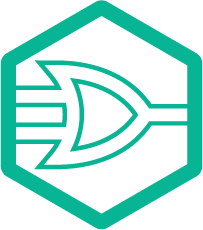
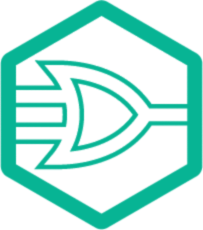
w

diff --git a/index.html b/index.html
@@ -1,10 +1,11 @@
 <!DOCTYPE html>
 <html lang="en">
   <head>
-    <!-- SEO + Boot -->
+    <!-- SEO -->
     <meta charset="utf-8">
-    <meta name="description" content="">
+    <meta name="description" content="This Spring, Choose Your Adventure at Oregon's Premier All Student Virtual Hackathon">
     <meta name="viewport" content="width=device-width, initial-scale=1, shrink-to-fit=no">
+    <meta name="theme-color" content="#273147">
     <meta property='og:title' content='HackOR'/>
     <meta property='og:image' content='https://www.hackor.org/images/logo.png'/>
     <meta property='og:description' content="This Spring, Choose Your Adventure at Oregon's Premier All Student Virtual Hackathon"/>
@@ -29,39 +30,38 @@
     
     <title>HackOR</title>
   </head>
-
-  <body>
+  <body data-aos="fade">
     <nav id="nav" class="navbar fixed-top navbar-expand-lg navbar-light">
       <a class="navbar-brand" href="#"><img src="images/Logo.svg" alt="HackOR"></a>
-      <button class="navbar-toggler" type="button" data-toggle="collapse" data-target="#navbarNav" aria-controls="navbarNav" aria-expanded="false" aria-label="Toggle navigation">
+      <button class="navbar-toggler" type="button" data-toggle="collapse" data-target="#nav-items" aria-controls="nav-items" aria-expanded="false" aria-label="Toggle navigation">
         <span class="navbar-toggler-icon"></span>
       </button>
-      <div class="collapse navbar-collapse" id="navbarNav">
+      <div class="collapse navbar-collapse" id="nav-items">
         <ul class="navbar-nav">
-          <li class="nav-item ml-3">
-            <button class="btn btn-outline-primary btn-lg" type="button">
-              <a href="#about"><b>About</b></a>
-            </button>
+          <li class="nav-item">
+            <a href="#about">
+              <button class="btn btn-outline-primary btn-lg" tabindex="-1" type="button"><b>About</b></button>
+            </a>
           </li>
-          <li class="nav-item ml-3">
-            <button class="btn btn-outline-primary btn-lg" type="button">
-              <a href="#schedule"><b>Schedule</b></a>
-            </button>
+          <li class="nav-item">
+            <a href="#schedule">
+              <button class="btn btn-outline-primary btn-lg" tabindex="-1" type="button"><b>Schedule</b></button>
+            </a>
           </li>
-          <li class="nav-item ml-3">
-            <button class="btn btn-outline-primary btn-lg" type="button">
-              <a href="#faq"><b>FAQ</b></a>
-            </button>
+          <li class="nav-item">
+            <a href="#faq">
+              <button class="btn btn-outline-primary btn-lg" tabindex="-1" type="button"><b>FAQ</b></button>
+            </a>
           </li>
-          <li class="nav-item ml-3">
-            <button class="btn btn-outline-primary btn-lg" type="button">
-              <a href="#sponsors"><b>Sponsors</b></a>
-            </button>
+          <li class="nav-item">
+            <a href="#sponsors">
+              <button class="btn btn-outline-primary btn-lg" tabindex="-1" type="button"><b>Sponsors</b></button>
+            </a>
           </li>
-          <li class="nav-item ml-3">
-            <button class="btn btn-outline-primary btn-lg" type="button">
-              <a href="#team"><b>Contact</b></a>
-            </button>
+          <li class="nav-item">
+            <a href="#faq">
+              <button class="btn btn-outline-primary btn-lg" tabindex="-1" type="button"><b>Contact</b></button>
+            </a>
           </li>
         </ul>
       </div>
@@ -80,11 +80,12 @@
                   <h5 data-aos="fade-up" data-aos-delay="200" class="mb-3"><b>Oregon's Premier All-student Virtual Hackathon</b></h5>
                   <h2 data-aos="fade-up" data-aos-delay="300" class="mb-4"><b>March 26-28, 2021</b></h2>
                   <div class="mobile-plus-only">
-                    <span data-aos="fade-up" data-aos-delay="400" class="d-inline-block" tabindex="0" data-toggle="tooltip" title="Registration coming in February!">
-                      <button class="btn btn-outline-primary btn-lg" type="button">
-                        <a class="typeform-share button" href="https://form.typeform.com/to/fCtpdCeJ" data-mode="popup" target="_blank"><b>Pre-Register</b></a>
-                        <script> (function() { var qs,js,q,s,d=document, gi=d.getElementById, ce=d.createElement, gt=d.getElementsByTagName, id="typef_orm_share", b="https://embed.typeform.com/"; if(!gi.call(d,id)){ js=ce.call(d,"script"); js.id=id; js.src=b+"embed.js"; q=gt.call(d,"script")[0]; q.parentNode.insertBefore(js,q) } })() </script>
-                      </button>
+                    <span data-aos="fade-up" data-aos-delay="400" class="d-inline-block" data-toggle="tooltip" title="Registration coming in February!">
+                      <a class="typeform-share button" href="https://form.typeform.com/to/fCtpdCeJ" tabindex="-1" data-mode="popup" target="_blank">
+                        <button class="btn btn-outline-primary btn-lg" type="button"><b>Pre-Register</b>
+                          <script> (function() { var qs,js,q,s,d=document, gi=d.getElementById, ce=d.createElement, gt=d.getElementsByTagName, id="typef_orm_share", b="https://embed.typeform.com/"; if(!gi.call(d,id)){ js=ce.call(d,"script"); js.id=id; js.src=b+"embed.js"; q=gt.call(d,"script")[0]; q.parentNode.insertBefore(js,q) } })() </script>
+                        </button>
+                      </a>
                     </span>
                     <!-- REGISTER BUTTON FOR FEB 1
                     <span data-aos="fade-up" data-aos-delay="400" class="d-inline-block" tabindex="0">
@@ -93,20 +94,21 @@
                       </button>
                     </span>
                     -->
-                    <span data-aos="fade-up" data-aos-delay="400" class="d-inline-block" tabindex="0">
-                      <button class="btn btn-outline-primary btn-lg" type="button">
-                        <a href="mailto:hello@hackor.org"><b>Sponsor Us</b></a>
-                      </button>
+                    <span data-aos="fade-up" data-aos-delay="400" class="d-inline-block">
+                      <a href="mailto:hello@hackor.org">
+                        <button class="btn btn-outline-primary btn-lg" tabindex="-1" type="button"><b>Sponsor Us</b></button>
+                      </a>
                     </span>
                   </div>
                 </div>
               </div>
               <div class="col-lg text-center mini-mobile-only">
-                <span data-aos="fade-up" data-aos-delay="400" class="d-inline-block" tabindex="0" data-toggle="tooltip" title="Registration coming in February!">
-                  <button class="btn btn-outline-primary btn-lg" type="button">
-                    <a class="typeform-share button" href="https://form.typeform.com/to/fCtpdCeJ" data-mode="popup" target="_blank"><b>Pre-Register</b></a>
-                    <script> (function() { var qs,js,q,s,d=document, gi=d.getElementById, ce=d.createElement, gt=d.getElementsByTagName, id="typef_orm_share", b="https://embed.typeform.com/"; if(!gi.call(d,id)){ js=ce.call(d,"script"); js.id=id; js.src=b+"embed.js"; q=gt.call(d,"script")[0]; q.parentNode.insertBefore(js,q) } })() </script>
-                  </button>
+                <span data-aos="fade-up" data-aos-delay="400" class="d-inline-block" data-toggle="tooltip" title="Registration coming in February!">
+                  <a class="typeform-share button" href="https://form.typeform.com/to/fCtpdCeJ" tabindex="-1" data-mode="popup" target="_blank">
+                    <button class="btn btn-outline-primary btn-lg" type="button"><b>Pre-Register</b>
+                      <script> (function() { var qs,js,q,s,d=document, gi=d.getElementById, ce=d.createElement, gt=d.getElementsByTagName, id="typef_orm_share", b="https://embed.typeform.com/"; if(!gi.call(d,id)){ js=ce.call(d,"script"); js.id=id; js.src=b+"embed.js"; q=gt.call(d,"script")[0]; q.parentNode.insertBefore(js,q) } })() </script>
+                    </button>
+                  </a>
                 </span>
                 <!-- REGISTER BUTTON FOR FEB 1
                 <span data-aos="fade-up" data-aos-delay="400" class="d-inline-block" tabindex="0">
@@ -115,10 +117,10 @@
                   </button>
                 </span>
                 -->
-                <span data-aos="fade-up" data-aos-delay="400" class="d-inline-block" tabindex="0">
-                  <button class="btn btn-outline-primary btn-lg" type="button">
-                    <a href="mailto:hello@hackor.org"><b>Sponsor Us</b></a>
-                  </button>
+                <span data-aos="fade-up" data-aos-delay="400" class="d-inline-block">
+                  <a href="mailto:hello@hackor.org">
+                    <button class="btn btn-outline-primary btn-lg" tabindex="-1" type="button"><b>Sponsor Us</b></button>
+                  </a>
                 </span>
               </div>
             </div>
@@ -210,11 +212,12 @@
             <p class="ml-4 mr-4">
               Hackors in the general track form teams of four and collaborate on a project, submitting it in the competition for categories and prizes. 
             </p>
-            <span class="d-inline-block" tabindex="0" data-toggle="tooltip" title="Registration coming in February!">
-              <button class="btn btn-outline-primary btn-lg" type="button">
-                <a class="typeform-share button pl-3 pr-3" href="https://form.typeform.com/to/fCtpdCeJ" data-mode="popup" target="_blank"><b>Pre-Register</b></a>
-                <script> (function() { var qs,js,q,s,d=document, gi=d.getElementById, ce=d.createElement, gt=d.getElementsByTagName, id="typef_orm_share", b="https://embed.typeform.com/"; if(!gi.call(d,id)){ js=ce.call(d,"script"); js.id=id; js.src=b+"embed.js"; q=gt.call(d,"script")[0]; q.parentNode.insertBefore(js,q) } })() </script>
-              </button>
+            <span class="d-inline-block" data-toggle="tooltip" title="Registration coming in February!">
+              <a class="typeform-share button" href="https://form.typeform.com/to/fCtpdCeJ" tabindex="-1" data-mode="popup" target="_blank">
+                <button class="btn btn-outline-primary btn-lg" type="button"><b>Pre-Register</b>
+                  <script> (function() { var qs,js,q,s,d=document, gi=d.getElementById, ce=d.createElement, gt=d.getElementsByTagName, id="typef_orm_share", b="https://embed.typeform.com/"; if(!gi.call(d,id)){ js=ce.call(d,"script"); js.id=id; js.src=b+"embed.js"; q=gt.call(d,"script")[0]; q.parentNode.insertBefore(js,q) } })() </script>
+                </button>
+              </a>
             </span>
           </div>
         </div>
@@ -230,11 +233,12 @@
             <p class="ml-4 mr-4">
               Hackors in the beginner track have the option of attending the hackathon as a conference and submitting a project for the "Best Beginner Hack" award.
             </p>
-            <span class="d-inline-block" tabindex="0" data-toggle="tooltip" title="Registration coming in February!">
-              <button class="btn btn-outline-primary btn-lg" type="button">
-                <a class="typeform-share button pl-3 pr-3" href="https://form.typeform.com/to/fCtpdCeJ" data-mode="popup" target="_blank"><b>Pre-Register</b></a>
-                <script> (function() { var qs,js,q,s,d=document, gi=d.getElementById, ce=d.createElement, gt=d.getElementsByTagName, id="typef_orm_share", b="https://embed.typeform.com/"; if(!gi.call(d,id)){ js=ce.call(d,"script"); js.id=id; js.src=b+"embed.js"; q=gt.call(d,"script")[0]; q.parentNode.insertBefore(js,q) } })() </script>
-              </button>
+            <span class="d-inline-block" data-toggle="tooltip" title="Registration coming in February!">
+              <a class="typeform-share button" href="https://form.typeform.com/to/fCtpdCeJ" tabindex="-1" data-mode="popup" target="_blank">
+                <button class="btn btn-outline-primary btn-lg" type="button"><b>Pre-Register</b>
+                  <script> (function() { var qs,js,q,s,d=document, gi=d.getElementById, ce=d.createElement, gt=d.getElementsByTagName, id="typef_orm_share", b="https://embed.typeform.com/"; if(!gi.call(d,id)){ js=ce.call(d,"script"); js.id=id; js.src=b+"embed.js"; q=gt.call(d,"script")[0]; q.parentNode.insertBefore(js,q) } })() </script>
+                </button>
+              </a>
             </span>
           </div>
         </div>
@@ -251,9 +255,9 @@
               Mentors are to be available throughout the weekend and guide students through their projects and questions. 
             </p>
             <span class="d-inline-block" tabindex="0" data-toggle="tooltip" title="Registration coming in February!">
-              <button class="btn btn-outline-primary btn-lg" type="button">
-                <a class="button pl-3 pr-3" href="http://mentor.hackor.org" target="_blank"><b>Apply as Mentor</b></a>
-              </button>
+              <a class="button text-center" href="http://mentor.hackor.org" target="_blank">
+                <button class="btn btn-outline-primary btn-lg" tabindex="-1" type="button"><b>Apply as Mentor</b></button>
+              </a>
             </span>
           </div>
         </div>
@@ -291,7 +295,7 @@
             <div class="card mt-3">
               <div class="card-header" id="friday">
                 <h5 class="mb-0">
-                  <button class="btn btn-link collapsed" data-toggle="collapse" data-target="#fridayCollapse" aria-expanded="false" aria-controls="fridayCollapse">
+                  <button class="btn btn-link btn-block collapsed" data-toggle="collapse" data-target="#fridayCollapse" aria-expanded="false" aria-controls="fridayCollapse">
                     FRIDAY, MARCH 26</button>
                 </h5>
               </div>
@@ -314,7 +318,7 @@
             <div class="card mt-3">
               <div class="card-header" id="saturday">
                 <h5 class="mb-0">
-                  <button class="btn btn-link collapsed" data-toggle="collapse" data-target="#saturdayCollapse" aria-expanded="false" aria-controls="saturdayCollapse">
+                  <button class="btn btn-link btn-block collapsed" data-toggle="collapse" data-target="#saturdayCollapse" aria-expanded="false" aria-controls="saturdayCollapse">
                     SATURDAY, MARCH 27</button>
                 </h5>
               </div>
@@ -334,7 +338,7 @@
             <div class="card mt-3">
               <div class="card-header" id="sunday">
                 <h5 class="mb-0">
-                  <button class="btn btn-link collapsed" data-toggle="collapse" data-target="#sundayCollapse" aria-expanded="false" aria-controls="sundayCollapse">
+                  <button class="btn btn-link btn-block collapsed" data-toggle="collapse" data-target="#sundayCollapse" aria-expanded="false" aria-controls="sundayCollapse">
                     SUNDAY, MARCH 28</button>
                 </h5>
               </div>
@@ -384,7 +388,7 @@
           <div id="accordion">
             <div class="card" data-aos="fade-up">
               <div class="card-header" id="headingOne">
-                <button class="btn btn-link collapsed" data-toggle="collapse" data-target="#collapseOne" aria-expanded="false" aria-controls="collapseOne">
+                <button class="btn btn-link btn-block collapsed" data-toggle="collapse" data-target="#collapseOne" aria-expanded="false" aria-controls="collapseOne">
                   <div class="row align-items-center">
                     <img class="img-fluid" src="images/Website Design/Assets/faq tree icons.png" alt="tree">
                     <b>How long is HackOR?</b>
@@ -400,7 +404,7 @@
             </div>
             <div class="card" data-aos="fade-up" data-aos-delay="100">
               <div class="card-header" id="headingTwo">
-                <button class="btn btn-link collapsed" data-toggle="collapse" data-target="#collapseTwo" aria-expanded="false" aria-controls="collapseTwo">
+                <button class="btn btn-link btn-block collapsed" data-toggle="collapse" data-target="#collapseTwo" aria-expanded="false" aria-controls="collapseTwo">
                   <div class="row align-items-center">
                     <img class="img-fluid" src="images/Website Design/Assets/faq tree icons.png" alt="tree">
                     <b>When do HackOR applications open?</b>
@@ -416,7 +420,7 @@
             </div>
             <div class="card" data-aos="fade-up" data-aos-delay="200">
               <div class="card-header" id="headingThree">
-                <button class="btn btn-link collapsed" data-toggle="collapse" data-target="#collapseThree" aria-expanded="false" aria-controls="collapseThree">
+                <button class="btn btn-link btn-block collapsed" data-toggle="collapse" data-target="#collapseThree" aria-expanded="false" aria-controls="collapseThree">
                   <div class="row align-items-center">
                     <img class="img-fluid" src="images/Website Design/Assets/faq tree icons.png" alt="tree">
                     <b>Does it cost anything to attend HackOR?</b>
@@ -432,7 +436,7 @@
             </div>
             <div class="card" data-aos="fade-up" data-aos-delay="300">
               <div class="card-header" id="headingFour">
-                <button class="btn btn-link collapsed" data-toggle="collapse" data-target="#collapseFour" aria-expanded="false" aria-controls="collapseFour">
+                <button class="btn btn-link btn-block collapsed" data-toggle="collapse" data-target="#collapseFour" aria-expanded="false" aria-controls="collapseFour">
                   <div class="row align-items-center">
                     <img class="img-fluid" src="images/Website Design/Assets/faq tree icons.png" alt="tree">
                     <b>I'm new to hackathons, may I still attend?</b>
@@ -452,7 +456,7 @@
           <div id="accordion2">
             <div class="card" data-aos="fade-up">
               <div class="card-header" id="headingFive">
-                <button class="btn btn-link collapsed" data-toggle="collapse" data-target="#collapseFive" aria-expanded="false" aria-controls="collapseFive">
+                <button class="btn btn-link btn-block collapsed" data-toggle="collapse" data-target="#collapseFive" aria-expanded="false" aria-controls="collapseFive">
                   <div class="row align-items-center">
                     <img class="img-fluid" src="images/Website Design/Assets/faq tree icons.png" alt="tree">
                     <b>How many members in a team?</b>
@@ -468,7 +472,7 @@
             </div>
             <div class="card" data-aos="fade-up" data-aos-delay="100">
               <div class="card-header" id="headingSix">
-                <button class="btn btn-link collapsed" data-toggle="collapse" data-target="#collapseSix" aria-expanded="false" aria-controls="collapseSix">
+                <button class="btn btn-link btn-block collapsed" data-toggle="collapse" data-target="#collapseSix" aria-expanded="false" aria-controls="collapseSix">
                   <div class="row align-items-center">
                     <img class="img-fluid" src="images/Website Design/Assets/faq tree icons.png" alt="tree">
                     <b>How do I find a team?</b>
@@ -484,7 +488,7 @@
             </div>
             <div class="card" data-aos="fade-up" data-aos-delay="200">
               <div class="card-header" id="headingSeven">
-                <button class="btn btn-link collapsed" data-toggle="collapse" data-target="#collapseSeven" aria-expanded="false" aria-controls="collapseSeven">
+                <button class="btn btn-link btn-block collapsed" data-toggle="collapse" data-target="#collapseSeven" aria-expanded="false" aria-controls="collapseSeven">
                   <div class="row align-items-center">
                     <img class="img-fluid" src="images/Website Design/Assets/faq tree icons.png" alt="tree">
                     <b>Staying connected in a virtual hackathon?</b>

diff --git a/css/main.css b/css/main.css
@@ -189,11 +189,13 @@ a:hover {
 
     #nav {
         background-color: #FFFAF3;
+        box-shadow: 0px 0px 8px #273147;
     }
     
     #nav .btn-outline-primary {
         border-radius: 0px;
         width: 100%;
+        border: none;
     }
     
     .jumbotron>div:first-child {
@@ -263,9 +265,14 @@ a:hover {
         display: none;
     }
 
+    #nav .nav-item {
+        margin-right: 2rem;
+    }
+
     #nav .btn-outline-primary {
         border-radius: 10px;
         width: 7em;
+        border: 2px solid #07B494;
     }
 
     .jumbotron>div>div {
@@ -373,22 +380,16 @@ a:hover {
 
 #nav img {
     height: 48px;
+    filter: drop-shadow(0px 0px 1px green);
 }
 
 #nav .btn-outline-primary {
-    border: 2px solid #07B494;
     background: #FFFAF3;
+    color: #07B494;
 }
 
 #nav .btn-outline-primary:hover {
     background-color: #07B494;
-}
-
-#nav .btn-outline-primary a {
-    color: #07B494;
-}
-
-#nav .btn-outline-primary:hover a {
     color: #FFFAF3;
 }
 
@@ -404,17 +405,11 @@ a:hover {
     border: 2px solid #273147;
     border-radius: 10px;
     width: 10em;
-}
-
-#jumbo .btn-outline-primary:hover {
-    background-color: #07B494;
-}
-
-#jumbo .btn-outline-primary a {
     color: #273147;
 }
 
-#jumbo .btn-outline-primary:hover a {
+#jumbo .btn-outline-primary:hover, .pathwaySign .btn-outline-primary:hover {
+    background-color: #07B494;
     color: #FFFAF3;
 }
 
@@ -459,14 +454,12 @@ a:hover {
     border: 2px solid #c69f75;
     background-color: #c69f75;
     border-radius: 15px;
-}
-
-.pathwaySign .btn-outline-primary:hover {
-    background-color: #07B494;
-}
-
-.pathwaySign .btn-outline-primary a {
     color: #273147;
+    width: 10em;
+}
+
+.pathwaySign .btn-outline-primary:last-of-type {
+    width: fit-content !important;
 }
 
 .floater {
@@ -492,7 +485,7 @@ a:hover {
     color: #FFFAF3;
     padding-left: 1em;
     padding-right: 1em;
-    height: 600px;
+    height: 720px;
 }
 
 
@@ -508,7 +501,7 @@ a:hover {
 #schedule-accordion .card-header {
     background: #88602f;
     text-align: center;
-    box-shadow: 3px 5px #704d22;
+    box-shadow: 0px 5px #60482e;
 }
 
 #schedule-accordion .card-header button {
